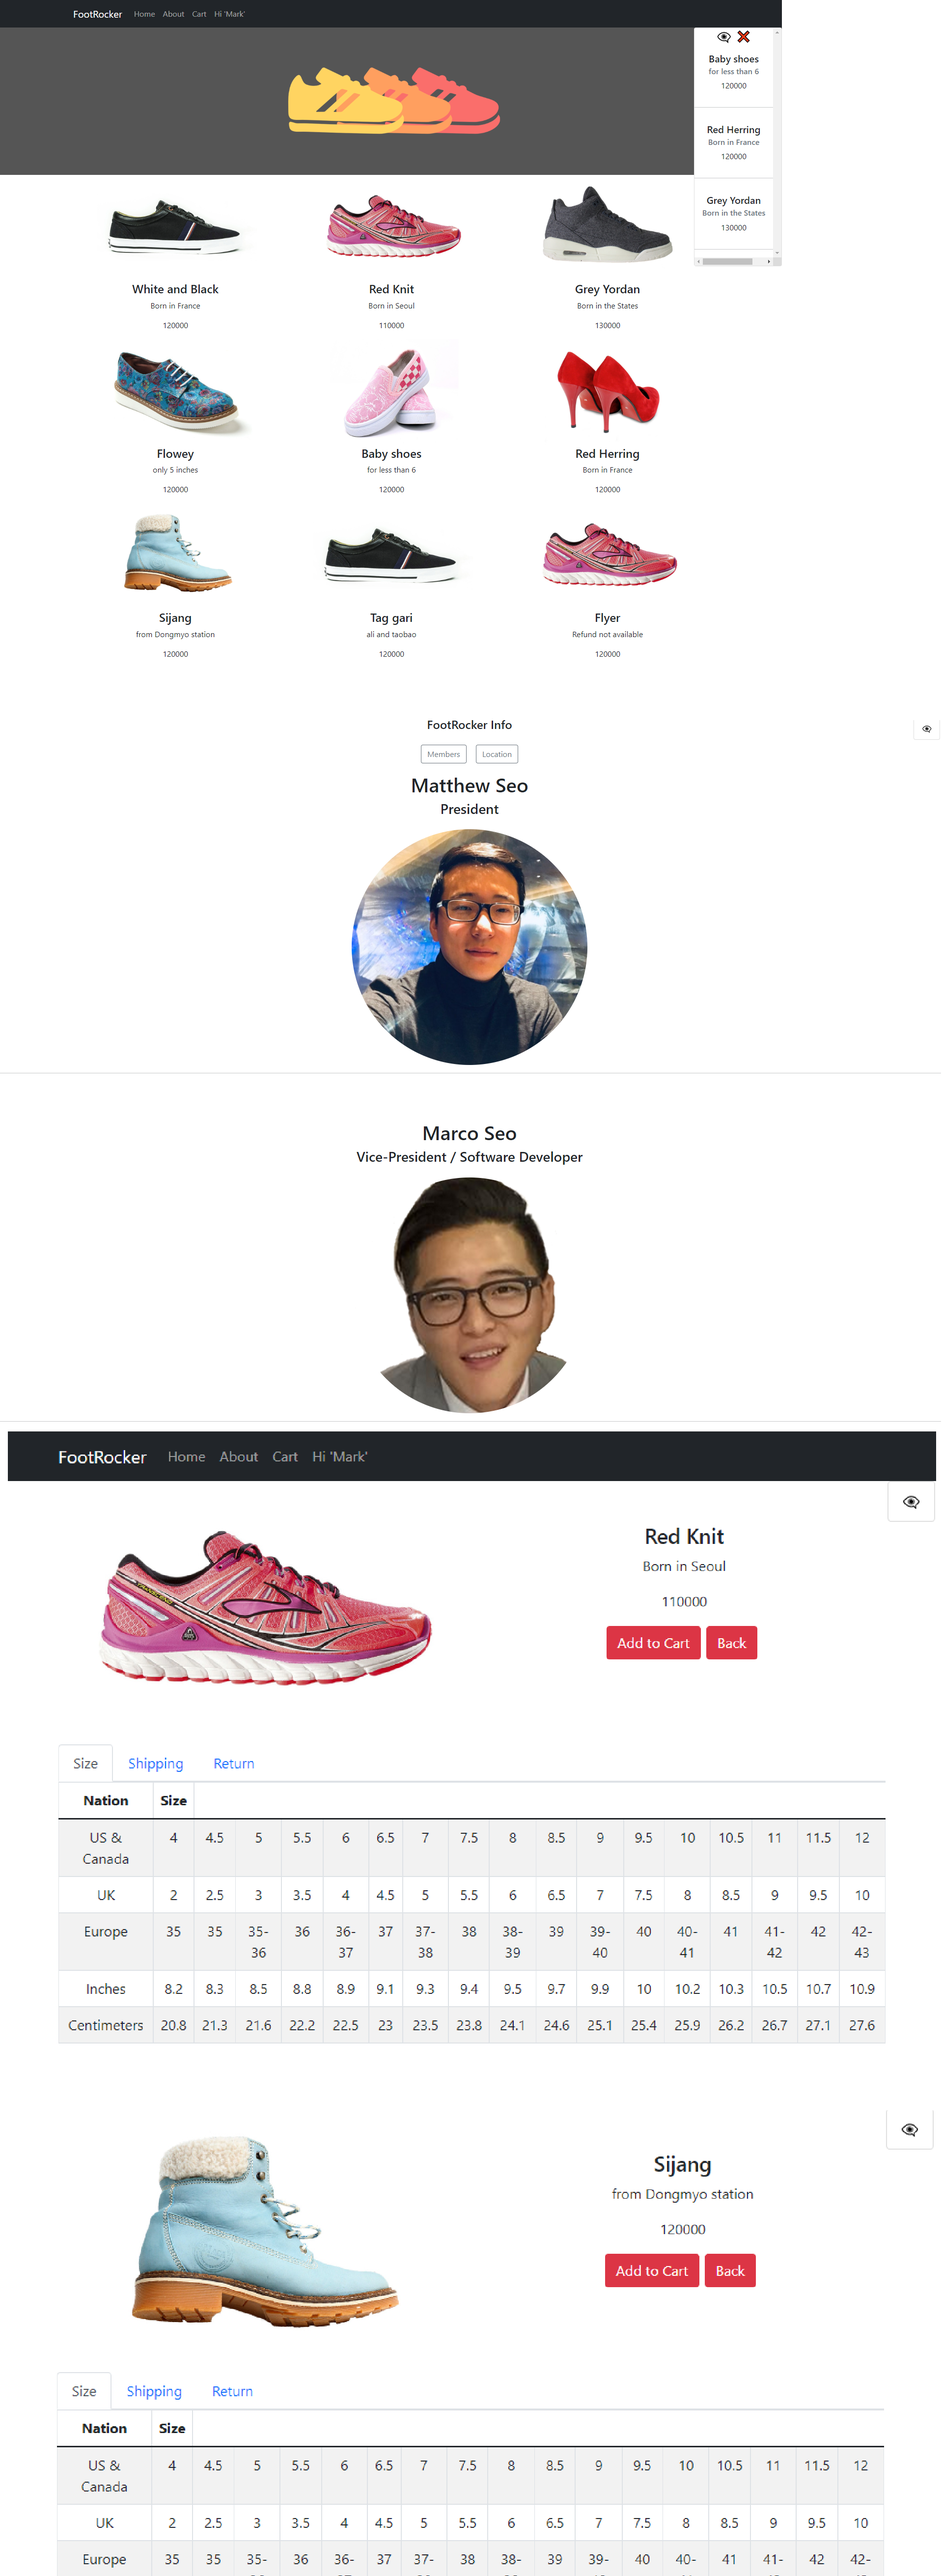
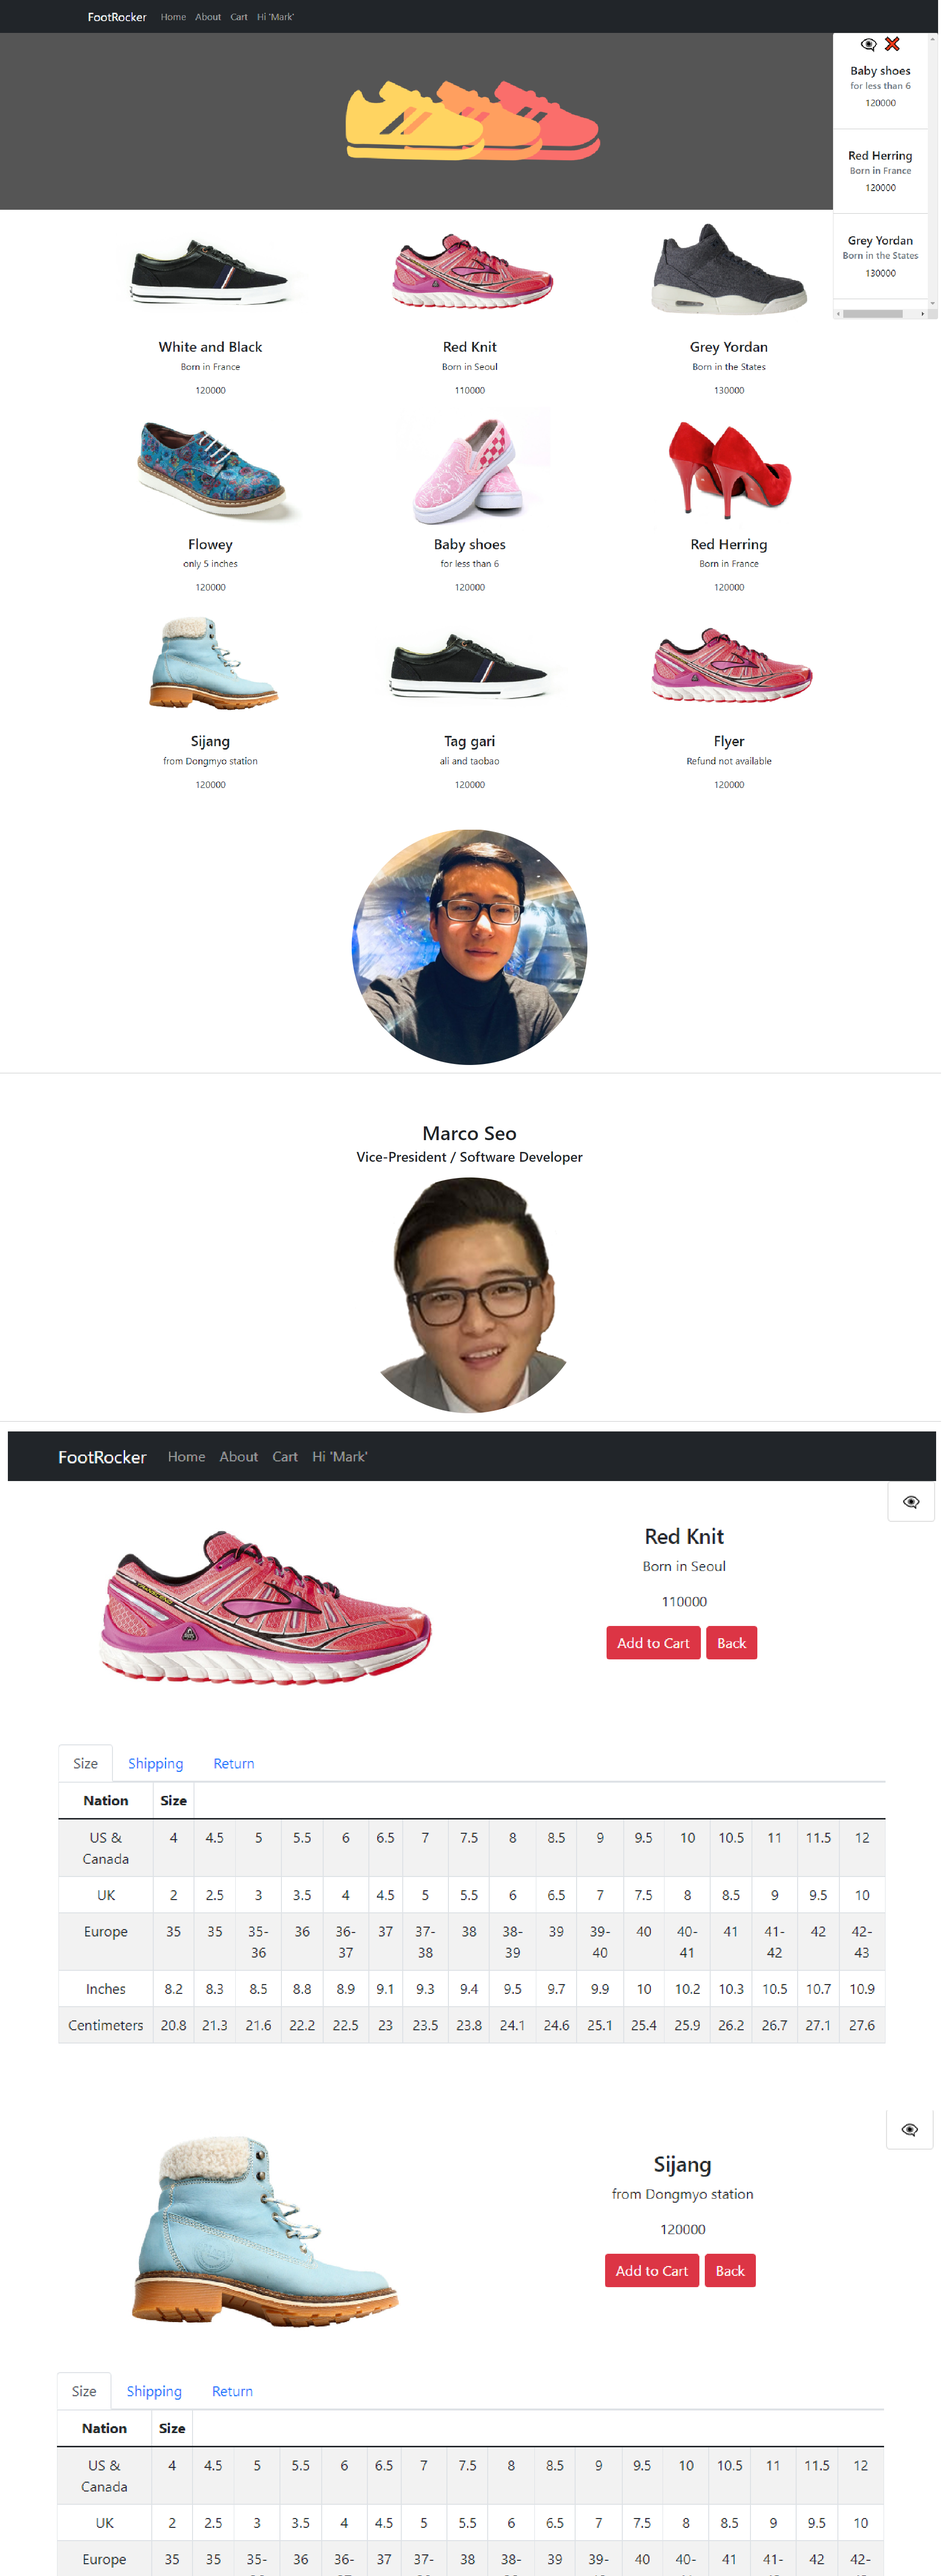
picture update

Changed region(s): [[0.0, 0.0, 1.0, 0.3108], [0.9062, 0.0932, 0.9688, 0.1243]]

diff --git a/src/data.js b/src/data.js
@@ -6,7 +6,7 @@ export const products = [
   },
   {
     id: 2,
-    img: "https://github.com/rongjuni/my_app/blob/main/src/img/port1.PNG",
+    img: "https://github.com/rongjuni/my_app/blob/main/src/img/port2.png?raw=true",
     link: "https://what-the-food.vercel.app/",
   },
   {
